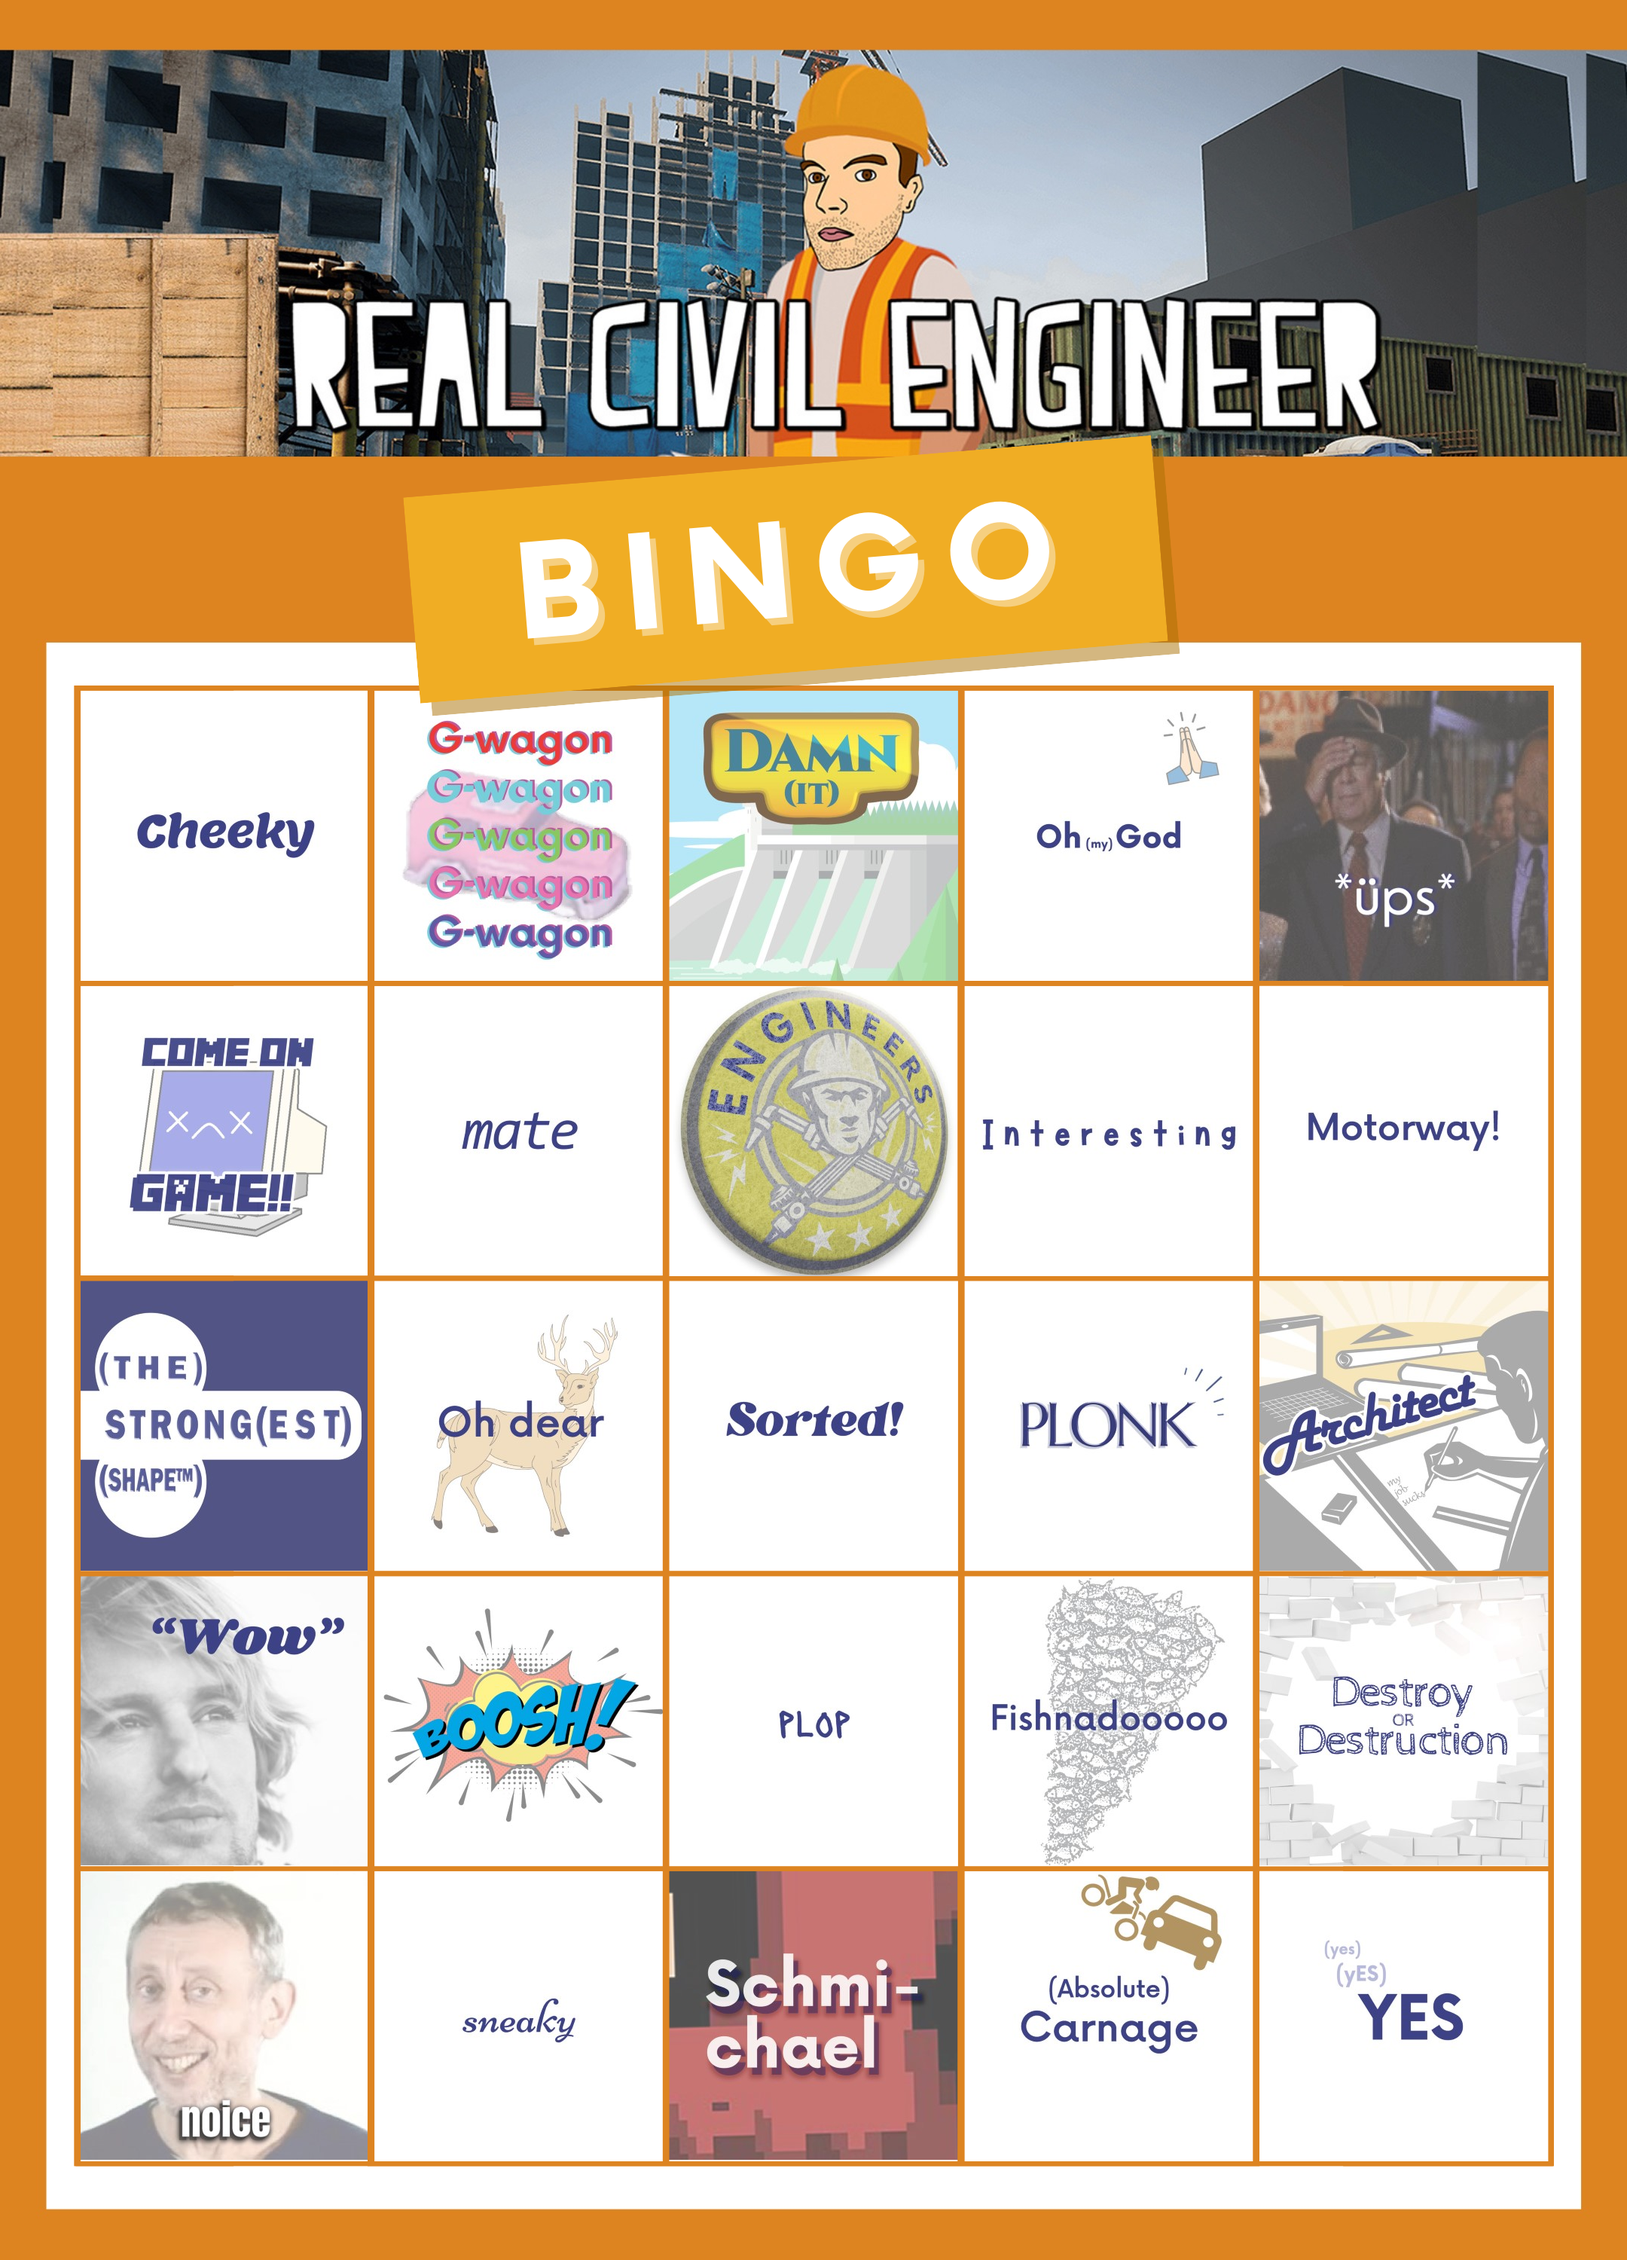
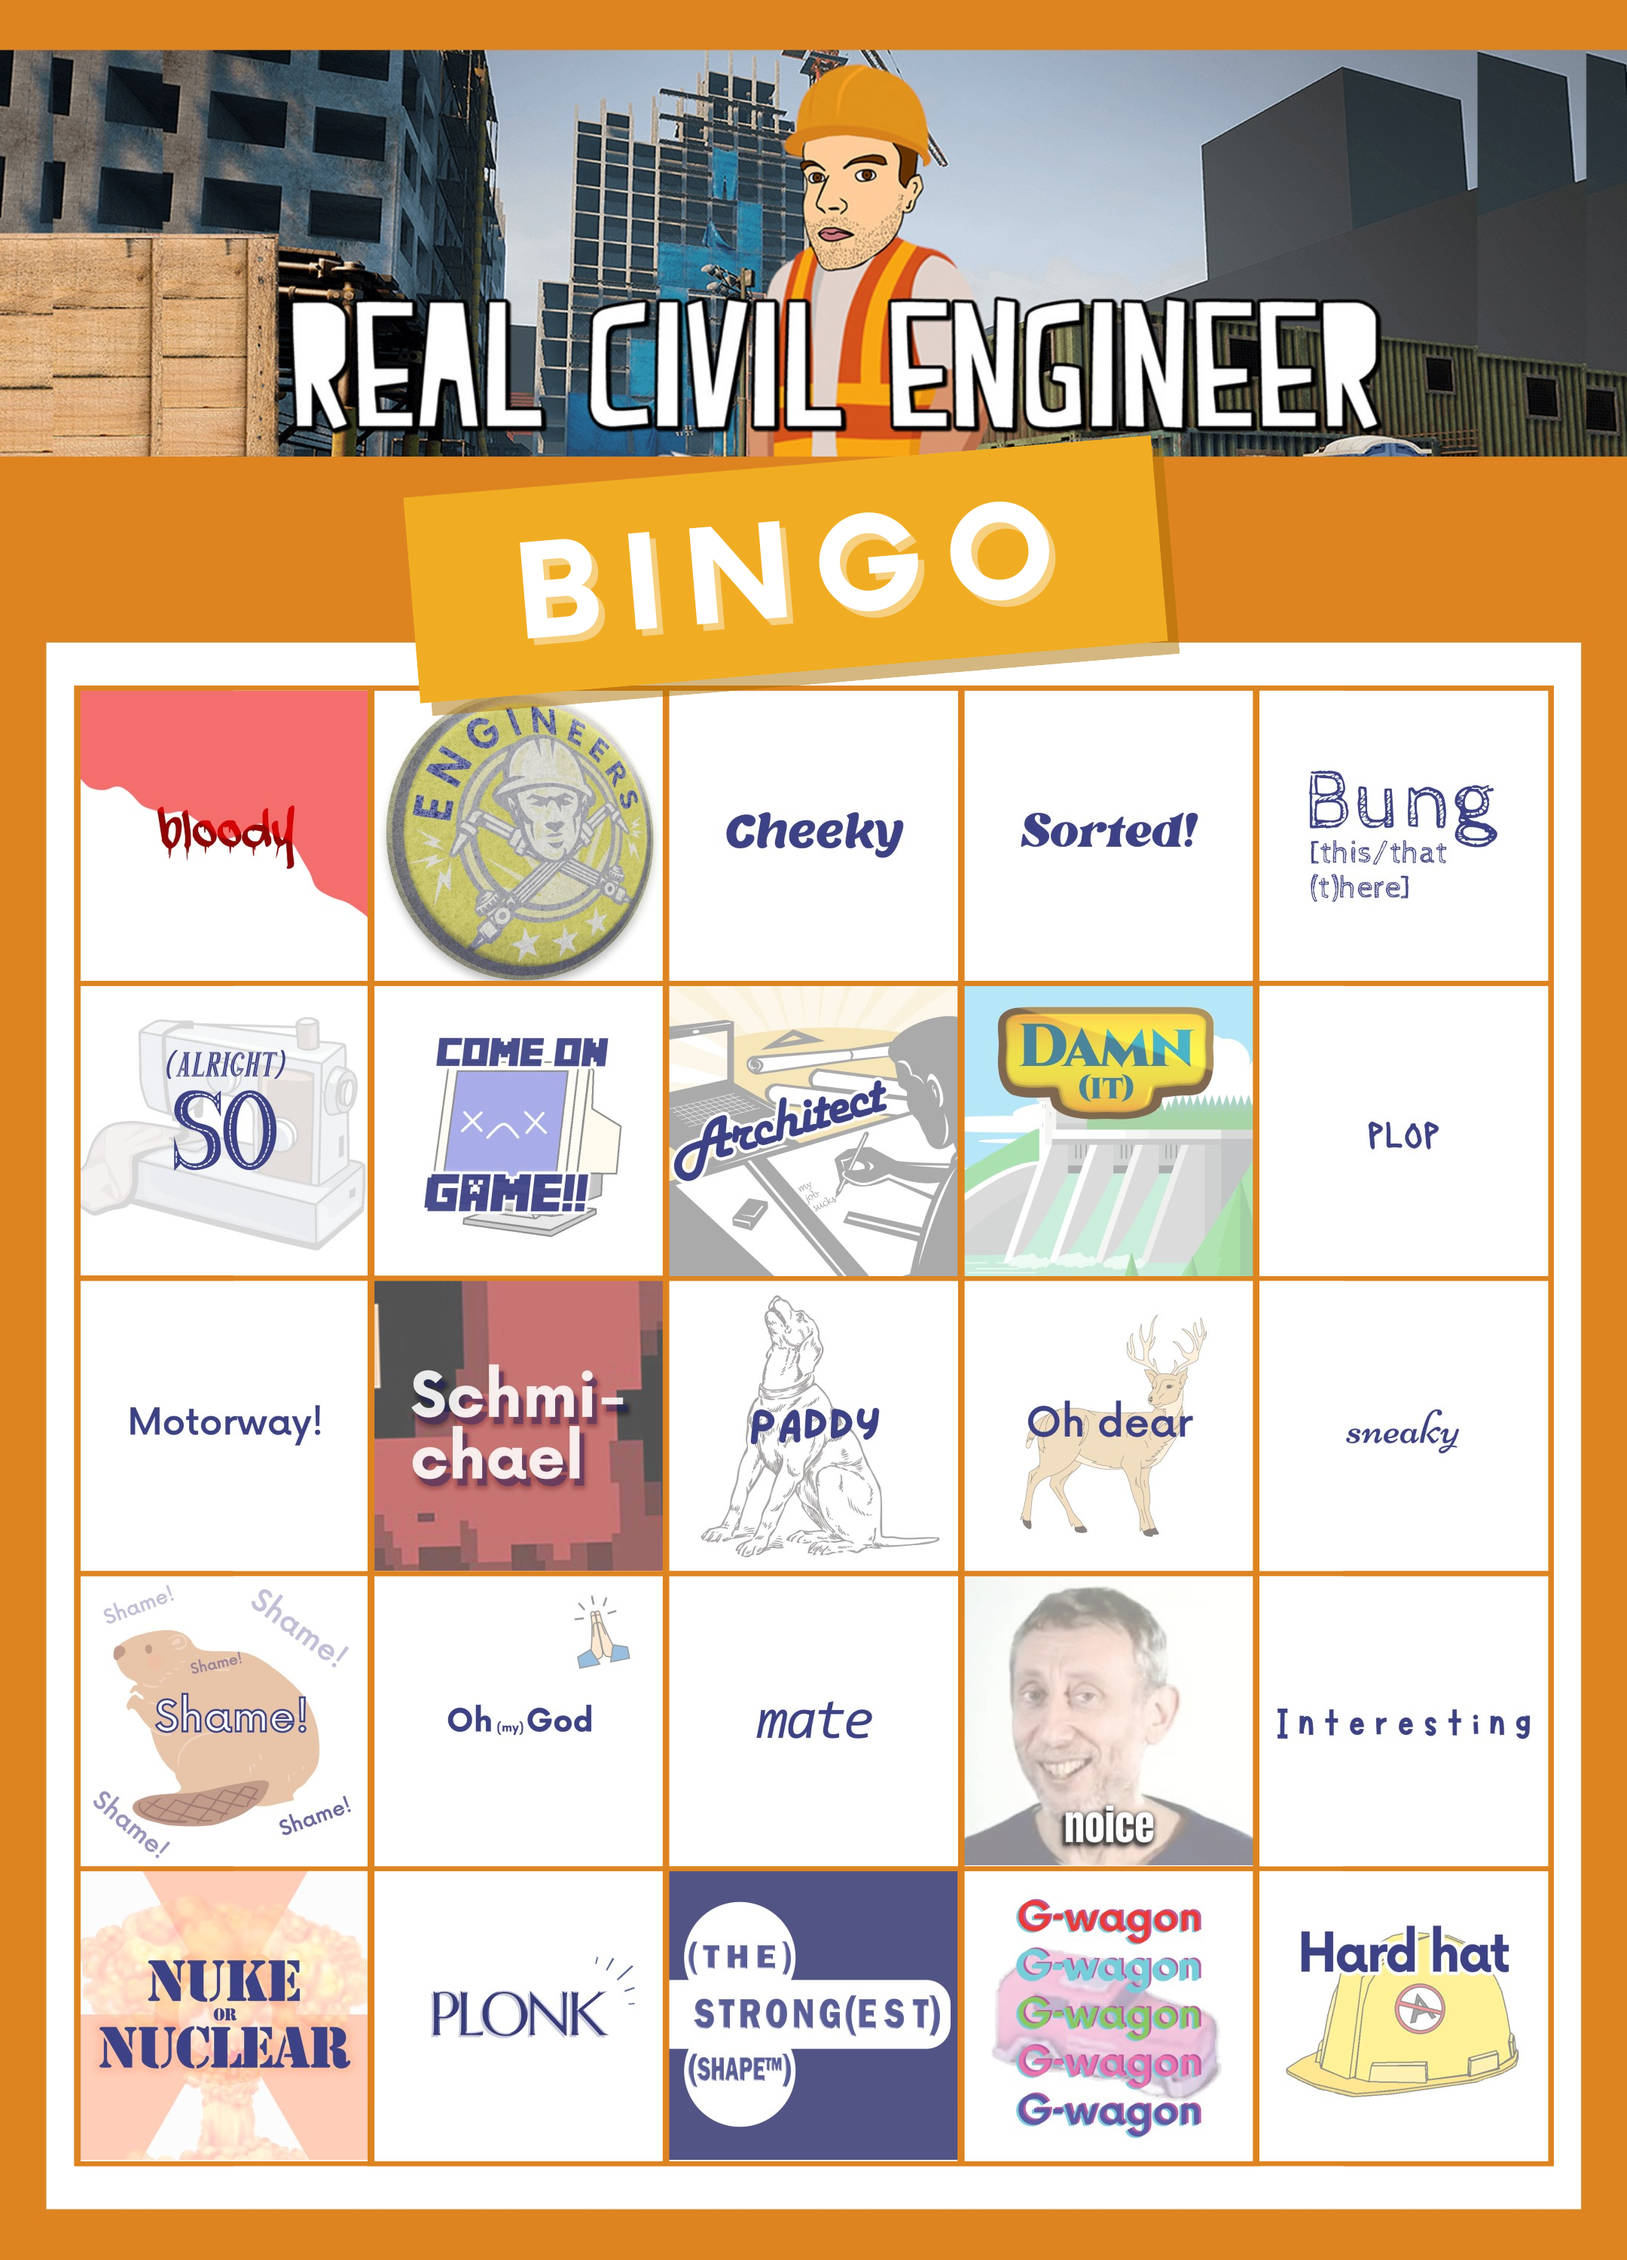
Added support for a free tile

diff --git a/generator.py b/generator.py
@@ -9,12 +9,17 @@ def generate_board():
         settings = load(specs)
     tile_count = settings["dimensions"][0] * settings["dimensions"][1]
     tiles_files = os.listdir("tiles")
+    if settings["free-tile"]["activated"] and settings["free-tile"]["image"] in tiles_files:
+        tiles_files.remove(settings["free-tile"]["image"])
     tiles_files = sample(tiles_files, tile_count)
     image = Image.open("backdrops/background.jpg")
     counter = 0
     for y in range(settings["dimensions"][1]):
         for x in range(settings["dimensions"][0]):
             tile = Image.open(os.path.join("tiles", tiles_files[counter]))
+            if settings["free-tile"]["activated"] and x == settings["free-tile"]["position"][0] and\
+                    y == settings["free-tile"]["position"][1]:
+                tile = Image.open(os.path.join("tiles", settings["free-tile"]["image"]))
             coordinates = [settings["top-left"][0] + settings["offset"][0] * x,
                            settings["top-left"][1] + settings["offset"][1] * y]
             image.paste(tile, (coordinates[0], coordinates[1]))
